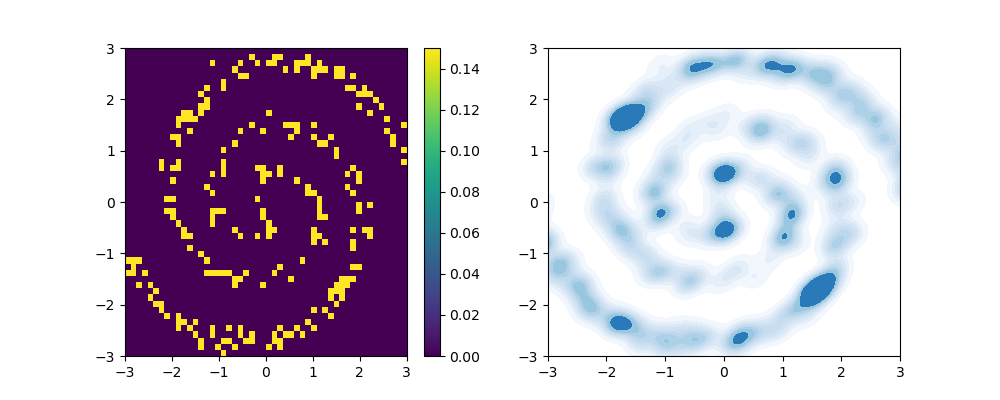
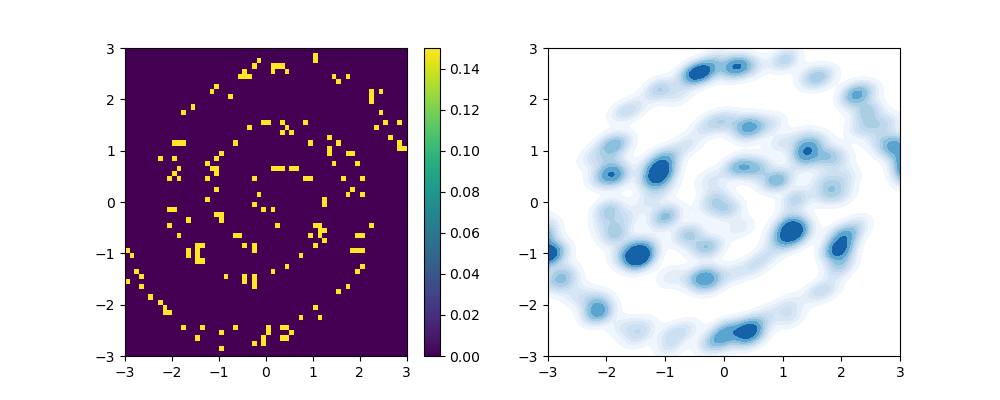
generic commit

diff --git a/scripts/transport/kvae_flow2.py b/scripts/transport/kvae_flow2.py
@@ -101,6 +101,7 @@ class Comp_transport_model:
     def map_var(self, x_mu, y_eta, y_mean, Lambda_var, X_var, fit_kernel):
         if self.approx:
             y_mean = geq_1d(torch.tensor(y_mean, device=self.device, dtype=self.dtype))
+            return 0 * y_mean
         else:
             y_mean = deepcopy(y_eta)
             y_eta = shuffle(y_eta)
@@ -124,6 +125,7 @@ class Comp_transport_model:
         x_mu = geq_1d(torch.tensor(param_dict['x_mu'], device=self.device, dtype=self.dtype))
         y_mean = geq_1d(torch.tensor(param_dict['y_mean'], device=self.device, dtype=self.dtype))
         y_var = geq_1d(torch.tensor(param_dict['y_var'], device=self.device, dtype=self.dtype))
+
 
         z_mean = self.map_mean(x_mu, y_eta, y_mean, Lambda_mean, X_mean, fit_kernel)
         z_var = self.map_var(x_mu, y_eta, y_mean, Lambda_var, X_var, fit_kernel)
@@ -151,6 +153,7 @@ class Comp_transport_model:
                        'x_mu': x, 'y_approx': 0, 'y': 0}
         for step_idx in range(len(self.submodel_params['Lambda_mean'])):
             param_dict = self.param_map(step_idx, param_dict)
+            self.approx = True
         if no_x:
             return param_dict['y_approx']
         return param_dict['y']
@@ -270,6 +273,7 @@ class CondTransportKernel(nn.Module):
     def map_var(self, x_mu, y_eta, y_mean, y_var = []):
         if self.params['approx']:
             y_mean = geq_1d(torch.tensor(y_mean, device=self.device, dtype=self.dtype))
+            return 0 * y_mean
         else:
             y_mean = deepcopy(y_eta)
             y_eta = shuffle(y_eta)
@@ -320,7 +324,7 @@ class CondTransportKernel(nn.Module):
 
 
     def loss_mmd(self):
-        map_vec = torch.concat([self.X_mu, self.Y_approx  + self.Z_mean +  self.Z_var], dim=1)
+        map_vec = torch.concat([self.X_mu, self.Y_approx  + self.Z_mean +  self.Z_var * float(self.approx)], dim=1)
         target = self.Y
 
         mmd_ZZ = self.mmd_kernel(map_vec, map_vec)
@@ -338,7 +342,7 @@ class CondTransportKernel(nn.Module):
 
     def loss_reg(self):
         Z_mean = self.Z_mean
-        Z_var = self.Z_var
+        Z_var = self.Z_var * float(self.approx)
 
         reg_1 = self.params['reg_lambda'] * torch.trace(Z_mean.T @ self.fit_kXXmean_inv @ Z_mean)
         reg_2 = self.params['reg_lambda'] * torch.trace(Z_var.T @ self.fit_kXXvar_inv @ Z_var)
@@ -706,7 +710,7 @@ def vl_exp(N=10000, n_iter=31, Yd=18, normal=True, exp_name='vl_exp'):
 def run():
     ref_gen = sample_normal
     target_gen = sample_spirals
-    N = 50
+    N = 20
     two_d_exp(ref_gen, target_gen, N, n_iter=101, plt_range=[[-3, 3], [-3, 3]], process_funcs=[], skip_idx=1,
               slice_vals=[0], slice_range=[-3, 3], exp_name='exp', n_transports=10, vmax=.15)
 
